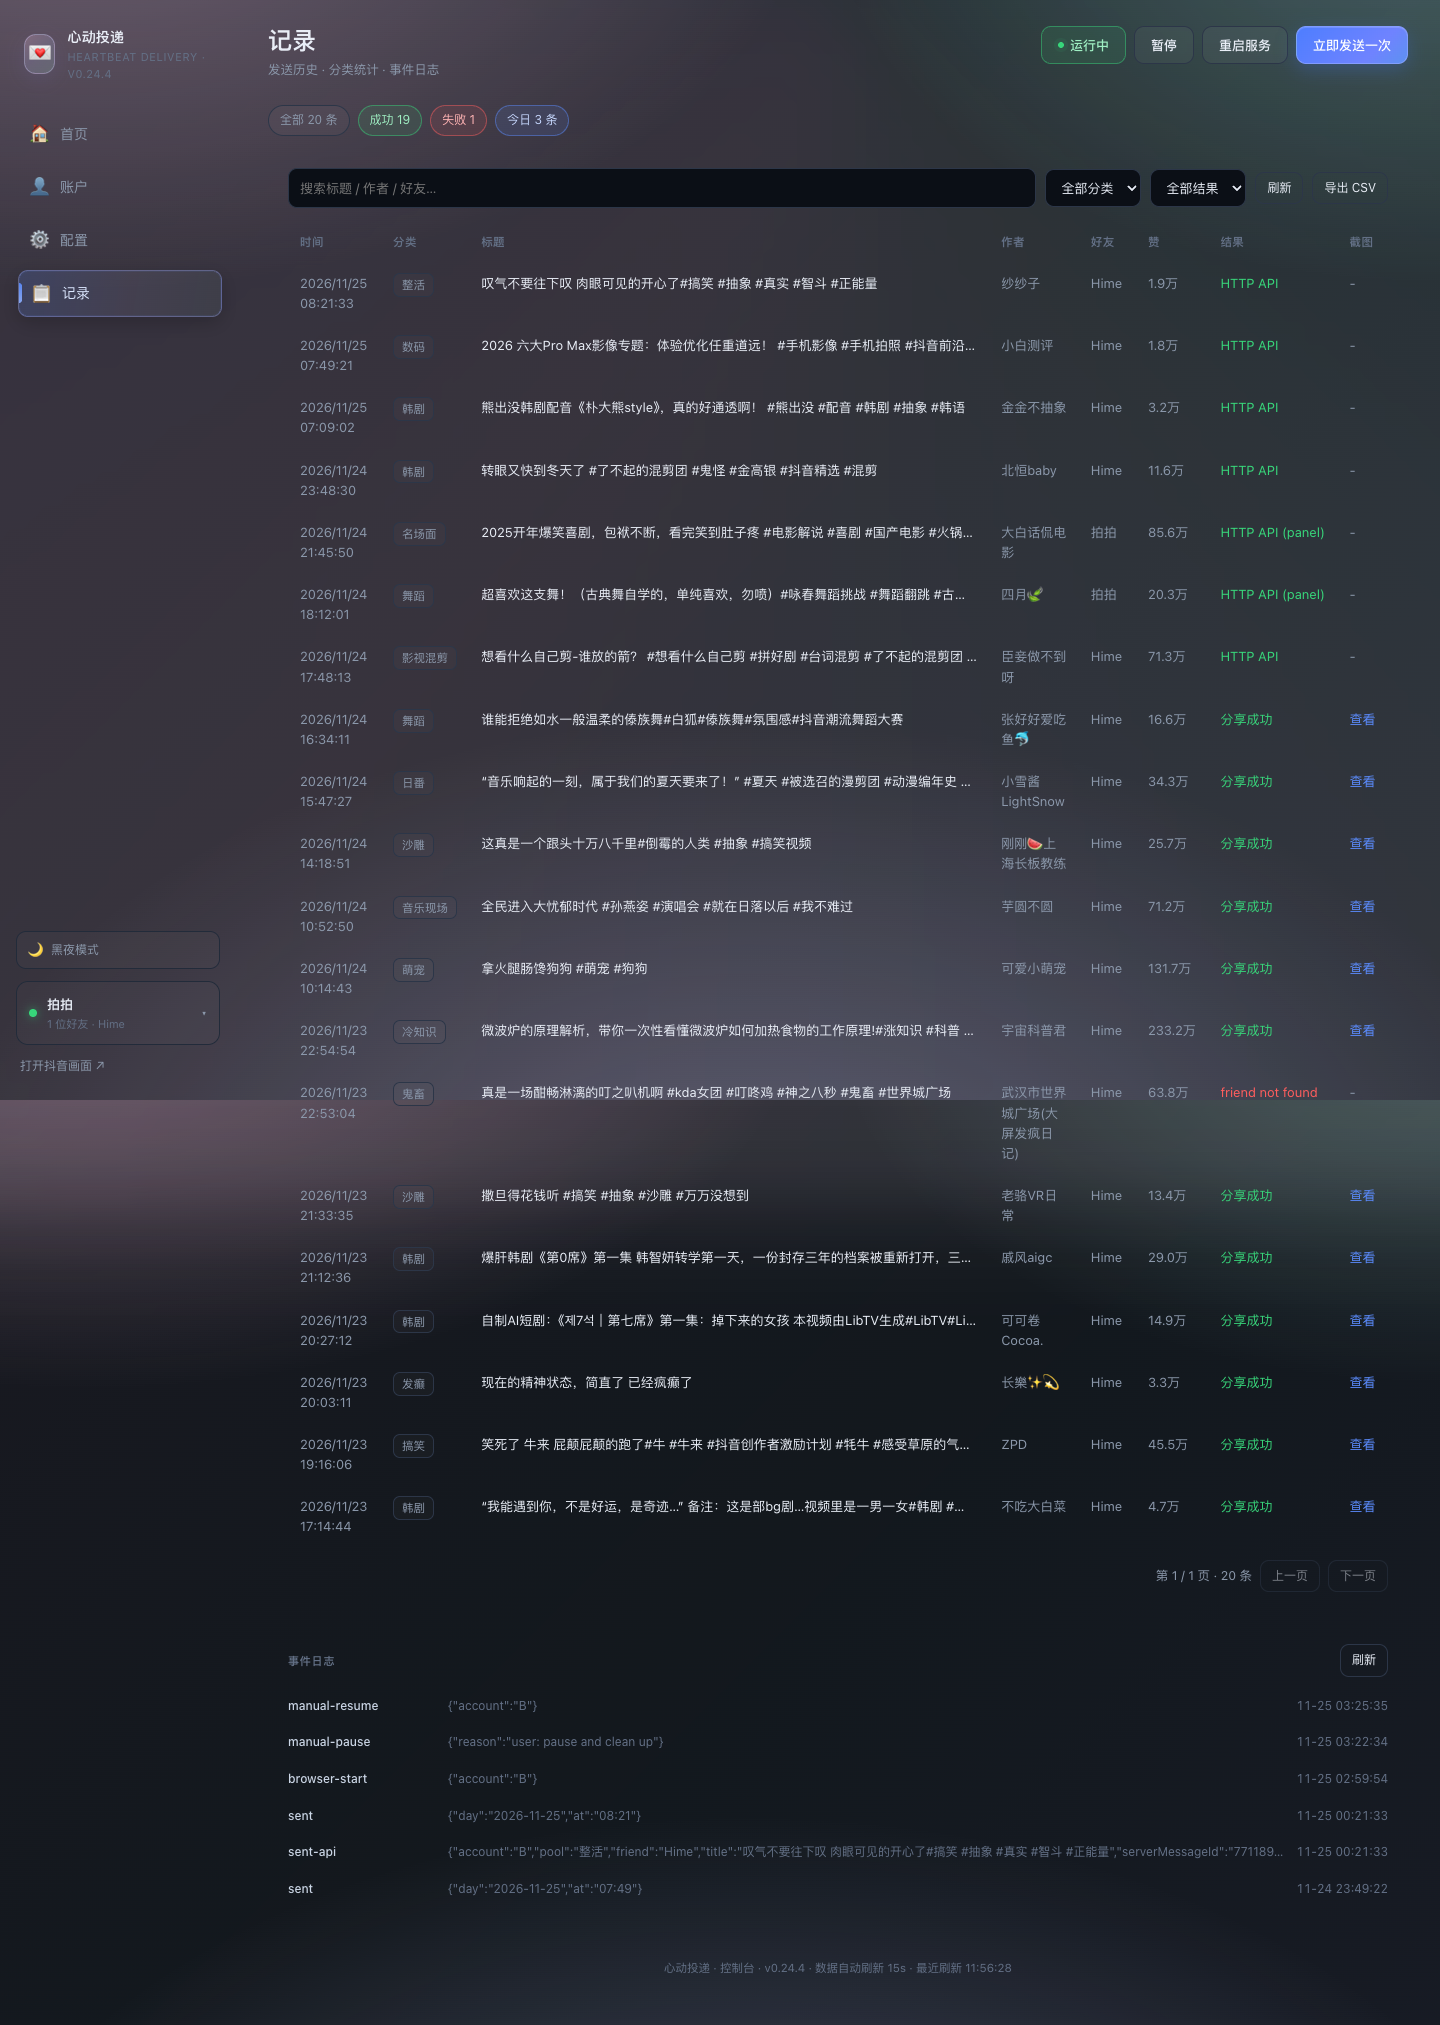
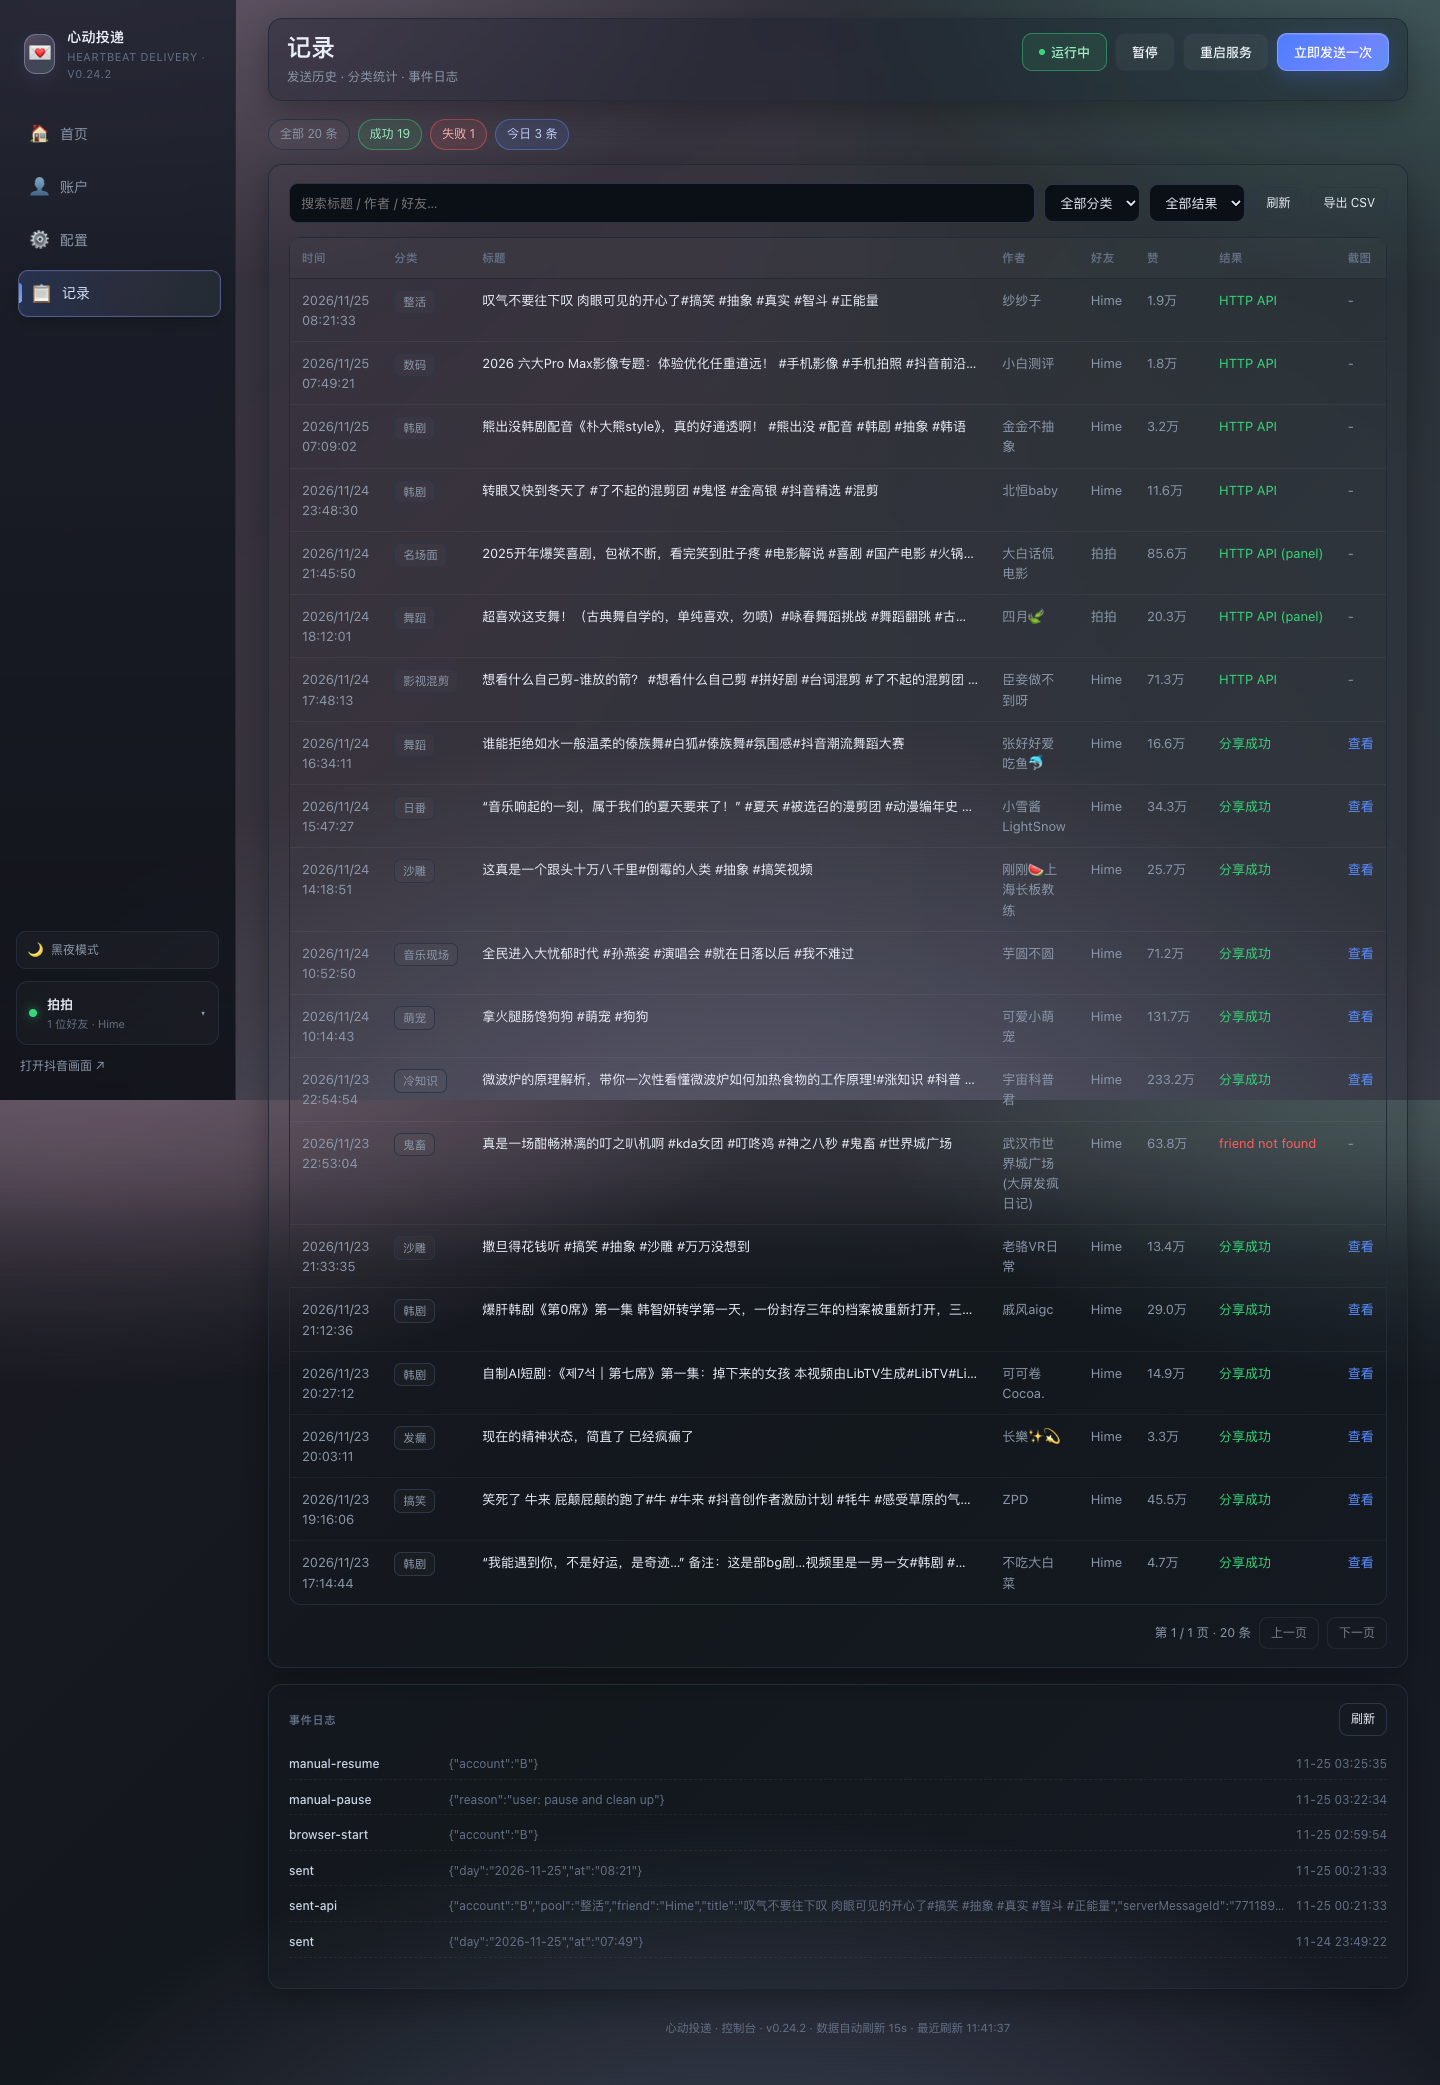
revert(ui): 回滚到 v0.24.2

diff --git a/src/page.html b/src/page.html
@@ -26,7 +26,8 @@
 
   /* sidebar */
   .sidebar{width:236px;flex:0 0 236px;position:sticky;top:0;height:100vh;display:flex;flex-direction:column;gap:26px;
-    padding:24px 16px;background:transparent;border-right:0;backdrop-filter:none;-webkit-backdrop-filter:none}
+    padding:24px 16px;background:linear-gradient(180deg,rgba(19,25,37,.72),rgba(11,14,20,.84));
+    backdrop-filter:blur(22px);-webkit-backdrop-filter:blur(22px);border-right:1px solid var(--line)}
   .brand{display:flex;align-items:center;gap:12px;padding:2px 8px}
   .logo{width:40px;height:40px;border-radius:12px;display:grid;place-items:center;font-size:20px;
     background:linear-gradient(135deg,rgba(255,196,230,.24),rgba(198,202,255,.18) 48%,rgba(184,255,238,.16));
@@ -125,9 +126,9 @@
   .top-actions .pill.bad::before{background:var(--bad);opacity:1}
 
   /* cards / layout */
-  .card{background:transparent;border:0;border-radius:0;
-    padding:18px 20px;box-shadow:none;min-width:0}
-  details.card{border:0;border-radius:0;background:transparent;box-shadow:none}
+  .card{background:transparent;
+    border:1px solid var(--line);border-radius:var(--r);
+    padding:18px 20px;box-shadow:var(--shadow);min-width:0}
   .card.pad-sm{padding:14px 16px}
   .card-head{display:flex;align-items:center;justify-content:space-between;gap:12px;margin-bottom:14px}
   .eyebrow{font-size:11px;letter-spacing:.8px;text-transform:uppercase;color:var(--dim2);font-weight:600}
@@ -161,11 +162,11 @@
   /* timeline */
   .timeline-wrap{display:flex;flex-wrap:wrap;gap:8px;max-height:118px;overflow:auto;padding-right:4px}
   /* table */
-  .table-wrap{overflow:auto;border-radius:0;border:0}
+  .table-wrap{overflow:auto;border-radius:12px;border:1px solid var(--line)}
   table{width:100%;border-collapse:collapse;font-size:13px}
   th{text-align:left;color:var(--dim2);font-weight:600;font-size:11.5px;letter-spacing:.4px;text-transform:uppercase;
-    border-bottom:0;padding:11px 12px;background:transparent;position:static}
-  td{border-bottom:0;padding:11px 12px;vertical-align:top}
+    border-bottom:1px solid var(--line);padding:11px 12px;background:rgba(255,255,255,.02);position:sticky;top:0}
+  td{border-bottom:1px solid rgba(255,255,255,.045);padding:11px 12px;vertical-align:top}
   tr:last-child td{border-bottom:0}
   tbody tr:hover td{background:rgba(91,140,255,.04)}
   .title-cell{max-width:520px;overflow:hidden;text-overflow:ellipsis;white-space:nowrap}
@@ -296,7 +297,7 @@
   summary{cursor:pointer;padding:12px 0;font-size:13px;font-weight:600;color:var(--dim);outline:none}
   summary:hover{color:var(--txt)}
   .events-mini{display:flex;flex-direction:column;gap:6px;font-size:12px;color:var(--dim);max-height:220px;overflow:auto}
-  .events-mini .ev{display:flex;gap:10px;padding:6px 0}
+  .events-mini .ev{display:flex;gap:10px;padding:5px 0;border-bottom:1px dashed rgba(255,255,255,.05)}
   .events-mini .ev b{color:#cbd6e6;font-weight:500;flex:0 0 150px;overflow:hidden;text-overflow:ellipsis;white-space:nowrap}
   .events-mini .ev span{flex:1;color:var(--dim2);overflow:hidden;text-overflow:ellipsis;white-space:nowrap}
   .events-mini .ev time{color:var(--dim2);flex:0 0 92px;text-align:right;font-variant-numeric:tabular-nums}
@@ -318,12 +319,14 @@
       conic-gradient(from 215deg at 58% 8%,rgba(255,205,234,.16),rgba(198,202,255,.13),rgba(184,255,238,.11),rgba(255,205,234,.16));
     filter:blur(46px);opacity:.95}
 
-  .topbar{position:static;z-index:auto;padding:0 0 8px;margin:0 0 18px;
-    background:transparent;border:0;border-radius:0;backdrop-filter:none;box-shadow:none}
+  .topbar{position:sticky;top:0;z-index:20;padding:14px 18px;margin:-8px 0 18px;
+    background:rgba(20,27,40,.34);border:1px solid var(--line);border-radius:var(--r);
+    backdrop-filter:blur(22px) saturate(1.12);-webkit-backdrop-filter:blur(22px) saturate(1.12);
+    box-shadow:var(--shadow)}
   .topbar::after{display:none}
 
   .card{transition:border-color .22s ease,box-shadow .22s ease,transform .22s ease,background .22s ease;overflow:hidden}
-  .card:hover{border-color:transparent;box-shadow:none}
+  .card:hover{border-color:rgba(91,140,255,.24);box-shadow:0 14px 40px rgba(0,0,0,.34),0 0 0 1px rgba(91,140,255,.05)}
   .hero-card{position:relative}
 
   .hero-num{background:linear-gradient(180deg,#ffffff,#b9cae8);-webkit-background-clip:text;background-clip:text;color:transparent}
@@ -364,6 +367,7 @@
   .tag:hover{border-color:rgba(91,140,255,.35);color:#cfdcf2}
 
   .table-wrap{background:transparent}
+  th{backdrop-filter:blur(10px)}
   tbody tr{transition:background .15s ease}
   tbody tr:hover td{background:rgba(91,140,255,.055)}
 
@@ -407,7 +411,7 @@
   html[data-theme="light"] ::-webkit-scrollbar-thumb{background:#c5d0e0;border:2px solid transparent;background-clip:content-box}
   html[data-theme="light"] ::-webkit-scrollbar-thumb:hover{background:#aebccf;background-clip:content-box}
 
-  html[data-theme="light"] .sidebar{background:transparent;border-right-color:transparent;box-shadow:none}
+  html[data-theme="light"] .sidebar{background:linear-gradient(180deg,rgba(255,255,255,.76),rgba(247,249,253,.8));border-right-color:var(--line);box-shadow:8px 0 28px rgba(31,53,89,.04)}
   html[data-theme="light"] .logo{background:linear-gradient(135deg,rgba(255,198,228,.5),rgba(205,208,255,.4) 48%,rgba(188,246,232,.45));border-color:rgba(180,172,230,.4);box-shadow:0 6px 18px rgba(150,140,200,.12)}
   html[data-theme="light"] .brand-sub{color:var(--dim2)}
   html[data-theme="light"] .nav-item{color:var(--dim)}
@@ -425,10 +429,10 @@
   html[data-theme="light"] .side-theme:hover{background:rgba(247,249,253,.7);color:var(--txt);border-color:var(--line2)}
   html[data-theme="light"] .side-link{color:var(--dim)}
 
-  html[data-theme="light"] .topbar{background:transparent;border-color:transparent;box-shadow:none}
-  html[data-theme="light"] .card{background:transparent;border-color:transparent;box-shadow:none}
-  html[data-theme="light"] details.card.mutual-card{background:transparent;border-color:transparent}
-  html[data-theme="light"] .card:hover{border-color:transparent;box-shadow:none}
+  html[data-theme="light"] .topbar{background:rgba(255,255,255,.34);border-color:rgba(255,255,255,.62);box-shadow:var(--shadow)}
+  html[data-theme="light"] .card{background:transparent;border-color:rgba(255,255,255,.42);box-shadow:0 8px 24px rgba(31,53,89,.04)}
+  html[data-theme="light"] details.card.mutual-card{background:transparent;border-color:rgba(255,255,255,.42)}
+  html[data-theme="light"] .card:hover{border-color:rgba(47,107,255,.3);box-shadow:0 16px 36px rgba(31,53,89,.10),0 0 0 1px rgba(47,107,255,.04)}
   html[data-theme="light"] .hero-num{background:linear-gradient(180deg,#1b2638,#526480);-webkit-background-clip:text;background-clip:text;color:transparent}
   html[data-theme="light"] .progress{background:#e8eef7;border-color:#dce5f1;box-shadow:inset 0 1px 2px rgba(31,53,89,.08)}
 
@@ -470,8 +474,9 @@
   html[data-theme="light"] details{background:transparent;border-color:var(--line)}
   html[data-theme="light"] details:hover{border-color:rgba(47,107,255,.22)}
 
-  html[data-theme="light"] .table-wrap{background:transparent;border-color:transparent}
-  html[data-theme="light"] th{background:transparent;border-bottom-color:var(--line);color:var(--dim2)}
+  html[data-theme="light"] .table-wrap{background:transparent;border-color:var(--line)}
+  html[data-theme="light"] th{background:#f7f9fd;border-bottom-color:var(--line);color:var(--dim2)}
+  html[data-theme="light"] td{border-bottom-color:#eef2f8}
   html[data-theme="light"] tbody tr:hover td{background:rgba(47,107,255,.045)}
   html[data-theme="light"] .account-row{background:rgba(255,255,255,.12);border-color:var(--line)}
   html[data-theme="light"] .account-row.active{background:rgba(47,107,255,.075);border-color:rgba(47,107,255,.28)}

diff --git a/CHANGELOG.md b/CHANGELOG.md
@@ -1,22 +1,5 @@
 # Changelog
 
-## 0.24.4 — 2026-11-25
-
-- **移除表格/事件列表的横向分隔线**:滚动到「最近发送」或记录页时，不再出现横跨内容区的表头线/行线；
-  表格只靠列间距和留白区分。首页最近事件也去掉虚线分隔。
-- 这是滚动一页后出现横线的主要来源；卡片/顶栏/侧栏保持 0.24.3 的无边界贝母底。
-
-
-## 0.24.3 — 2026-11-25
-
-- **彻底取消卡片容器外观**:移除卡片的填充、边框、圆角和阴影，卡片只作为布局容器；
-  页面级贝母背景成为唯一表面，滚动时不会再出现被卡片矩形切开的区域。
-- **顶栏改为普通页头**:不再使用粘性玻璃卡片，去掉悬浮条和背景层，滚动时不会出现顶部覆盖带。
-- 表格容器、表头、折叠区去掉独立底色；表格只保留行分隔线，顶栏/内容/表格共享同一层渐变。
-- 侧栏也改为透明，取消与主内容之间的白色/深色竖条；整页共享同一层贝母背景。
-- 发送计划、账户页、记录页同步适配；操作按钮、输入框、账户行仍保留必要的可点击表面。
-
-
 ## 0.24.2 — 2026-11-25
 
 - **去掉卡片填充和 backdrop-filter**:滚动时不再出现矩形色块或模糊边界；卡片只保留边框/阴影，

diff --git a/docs/ui.md b/docs/ui.md
@@ -1,8 +1,7 @@
 # 控制台
 
 面板地址：`http://127.0.0.1:9400`（应用主窗口默认打开的就是它）。侧栏品牌名和页面底部显示当前版本号，
-与安装包 `package.json` 的版本一致。控制台使用统一的页面级贝母背景，卡片只作为布局容器，
-不再有独立底色/边框；顶部为普通页头。
+与安装包 `package.json` 的版本一致。
 
 ## 白天 / 黑夜模式
 
@@ -13,7 +12,7 @@
 
 ## 首页
 
-今日进度、纯 API 会话、浏览器状态三个区块；发送成功率/今日失败/最常分类/累计发送；
+今日进度、纯 API 会话、浏览器状态三块卡片；发送成功率/今日失败/最常分类/累计发送；
 今天的时刻表、分类分布；快速发送（互关好友下拉多选 → 只试选片 / 发送）；最近发送与最近事件；
 可展开「实时画面」扫码或点验证码。
 

diff --git a/docs/optimization-plan.md b/docs/optimization-plan.md
@@ -361,8 +361,6 @@ CI 只跑 5 个旧测试文件，新增的 `friend-picker`、`video-picker`、`p
 - 全局贝母氛围 + 账户页简化重排（0.24.0）。
 - 头部玻璃条、卡片与背景贝母色贯通、移动端两行导航（0.24.1）。
 - 去掉卡片填充/滚动色块，贝母色直接穿过卡片（0.24.2）。
-- 卡片完全无边框/阴影，顶栏改为普通页头，彻底消除滚动分割（0.24.3）。
-- 去掉表格/事件列表横线，消除滚动一页后的表头分割线（0.24.4）。
 
 以下建议明确**不采用**：
 
